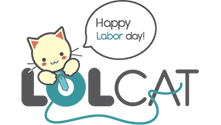
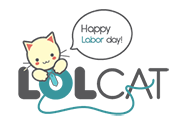
Added Sam's Changes
Holiday and Logo images
Scripts and Styles 2 updates

Changed region(s): [[0.0802, 0.0, 0.9091, 1.0], [0.3476, 0.48, 0.3743, 0.504]]

diff --git a/public/scripts.js b/public/scripts.js
@@ -5,108 +5,134 @@
 		var date = currentTime.getDate();
 		var month = currentTime.getMonth() + 1;
 		
-		//Valentines
+//January
+
+//February		
+		//Valentines - Feb 14
 		if (month == 2 && (date >= 10 && date <= 16)) {
 			document.getElementById("logo").style.background="url('img/holidays-03.png')";}
-		//St. Pattys Day
+//March		
+		//Steph Vargas's Bday - March 5
+		else if (date == 5 && month == 3){
+			document.getElementById("logo").style.background="url('img/holidays-17.png')";}
+		//St. Pattys Day - March 17
 		else if (month == 3 && (date >= 13 && date <= 19)) {
 			document.getElementById("logo").style.background="url('img/holidays-02.png')";}
-		//Easter 2016
-		//else if (month == 3 && (date >= 22 && date <= 29)) {
-		//	document.getElementById("logo").style.background="url('img/easter.png')";}
-		//Labor Day CR
+		//Easter 2016 - March 27
+		//else if (month == 3 && (date >= 22 && date <= 28)) {
+		//	document.getElementById("logo").style.background="url('img/holidays-11.png')";}
+		//Manuel Delgado Rodriguez's Bday - March 29
+		else if (date == 29 && month == 3){
+			document.getElementById("logo").style.background="url('img/holidays-17.png')";}
+//April
+		//Easter 2017 - April 16
+		//else if (month == 4 && (date >= 12 && date <= 18)) {
+		//	document.getElementById("logo").style.background="url('img/holidays-11.png')";}
+		//Sam's Bday - April 22
+		else if (date == 22 && month == 4){
+			document.getElementById("logo").style.background="url('img/holidays-17.png')";}
+		//Luis Mesen Monge's Bday - April 26
+		else if (date == 26 && month == 4){
+			document.getElementById("logo").style.background="url('img/holidays-17.png')";}
+//May
+		//Labor Day CR - May 1
 		else if ((date >= 27 && month == 4) || (date == 1 && month == 5)) {
 			document.getElementById("logo").style.background="url('img/holidays-07.png')";}
-		//Mother's Day US 2016
-		else if (month == 5 && (date >= 2 && date <= 10)) {
+		//Cinco de Mayo - May 5
+		else if  (date == 5 && month == 5) {
+			document.getElementById("logo").style.background="url('img/holidays-19.png')";}
+		//Mother's Day US 2016 - May 8
+		else if (month == 5 && (date >= 6 && date <= 10)) {
 			document.getElementById("logo").style.background="url('img/holidays-08.png')";}
-		//Memorial Day US 2016
-		//else if (month == 5 && (date >= 25 && date <= 31)) {
-		//	document.getElementById("logo").style.background="url('img/memorialday.png')";}
-		//Father's Day 2016
+		//Mother's Day US 2017 - May 14
+		//else if (month == 5 && (date >= 10 && date <= 16)) {
+		//	document.getElementById("logo").style.background="url('img/holidays-08.png')";}
+		//Memorial Day US 2016/2017 - May 30/May 29
+		else if (month == 5 && (date >= 25 && date <= 31)) {
+			document.getElementById("logo").style.background="url('img/holidays-14.png')";}
+//June
+		//Eric's Bday - June 12
+		else if (date == 12 && month == 6){
+			document.getElementById("logo").style.background="url('img/holidays-17.png')";}
+		//Father's Day 2016/2017 - June 19/June 18
 		else if (month == 6 && (date >= 13 && date <= 19)) {
 			document.getElementById("logo").style.background="url('img/holidays-09.png')";}
-		//Independence Day US
-		else if (month == 7 && (date >= 1 && date <= 7)) {
+		//Sonia Sanchez Rodriguez's Bday - June 26
+		else if (date == 26 && month == 6){
+			document.getElementById("logo").style.background="url('img/holidays-17.png')";}
+//July
+		//Independence Day US - July 4
+		else if (month == 7 && (date >= 1 && date <= 2)) {
 			document.getElementById("logo").style.background="url('img/holidays-05.png')";}
-		// Annexation of Guanacaste CR
-		//else if (month == 7 && (date >= 20 && date <= 27)) {
-		//	document.getElementById("logo").style.background="url('img/annex.png')";}
-		//Mother's Day CR
+		else if (month == 7 && (date >= 4 && date <= 7)) {
+			document.getElementById("logo").style.background="url('img/holidays-05.png')";}
+		//Steph Araya Medina's Bday - July 3
+		else if (date == 3 && month == 7){
+			document.getElementById("logo").style.background="url('img/holidays-17.png')";}
+		//Gappa's Bday - July 13
+		else if (date == 13 && month == 7){
+			document.getElementById("logo").style.background="url('img/holidays-17.png')";}
+		//Kala's Bday - July 22
+		else if (date == 22 && month == 7){
+			document.getElementById("logo").style.background="url('img/holidays-17.png')";}
+		// Annexation of Guanacaste CR - July 25
+		else if (month == 7 && (date >= 23 && date <= 27)) {
+			document.getElementById("logo").style.background="url('img/holidays-15.png')";}
+//August		
+		//Mother's Day CR - August 15
 		else if (month = 8 && (date >= 11 && date <= 17)) {
 			document.getElementById("logo").style.background="url('img/holidays-08.png')";}
-		//Labor Day US 2016
+//September		
+		//Labor Day US 2016/2017 - September 5/September 4
 		else if (month == 9 && (date <= 1 && date <= 7)) {
 			document.getElementById("logo").style.background="url('img/holidays-07.png')";}
-		// Children's Day CR
-		//else if (month == 9 && (date >= 8 && date <= 10)) {
-		//	document.getElementById("logo").style.background="url('img/childrens.png')";}
-		//Indepedence Day CR
-		else if (month == 9 && (date >= 11 && date <= 17)) {
+		// Children's Day CR - September 9
+		else if (month == 9 && (date >= 8 && date <= 10)) {
+			document.getElementById("logo").style.background="url('img/holidays-16.png')";}
+		//Indepedence Day CR - September 15
+		else if (month == 9 && (date >= 11 && date <= 16)) {
 			document.getElementById("logo").style.background="url('img/holidays-04.png')";}
-		// Day of the Cultures CR
-		//else if (month == 10 && (date >= 8 && date <= 14)) {
-		//	document.getElementById("logo").style.background="url('img/DOC.png')";}
-		// Halloween
-		else if (month == 10 && (date >= 24 && date <= 31)) {
+		//Karen Murillo Chaves's Bday - September 17
+		else if (date == 17 && month == 9){
+			document.getElementById("logo").style.background="url('img/holidays-17.png')";}
+//October		
+		// Day of the Cultures CR - October 12
+		else if (month == 10 && (date >= 8 && date <= 14)) {
+			document.getElementById("logo").style.background="url('img/holidays-10.png')";}
+		// Halloween - October 31
+		else if (month == 10 && (date >= 24 && date <= 26)) {
 			document.getElementById("logo").style.background="url('img/holidays-01.png')";}
-		//Thanksgiving 2016
-		//else if (month == 11 && (date >= 17 && date <= 26)) {
-		//	document.getElementById("logo").style.background="url('img/thanksgiving.png')";}
-		// Christmas
+		else if (month == 10 && (date >= 28 && date <= 31)) {
+			document.getElementById("logo").style.background="url('img/holidays-01.png')";}
+		//Laura Ulate Alfaro's Bday - October 27
+		else if (date == 27 && month == 10){
+			document.getElementById("logo").style.background="url('img/holidays-17.png')";}
+//November		
+		//Ryan's Bday - November 4
+		else if (date == 4 && month == 11){
+			document.getElementById("logo").style.background="url('img/holidays-17.png')";}
+		//Jeannina Carranza Castro's Bday - November 7
+		else if (date == 7 && month == 11){
+			document.getElementById("logo").style.background="url('img/holidays-17.png')";}
+		//Ariela Carrillo Diaz's Bday - November 9
+		else if (date == 9 && month == 11){
+			document.getElementById("logo").style.background="url('img/holidays-17.png')";}
+		//Thanksgiving 2016 - November 24
+		else if (month == 11 && (date >= 17 && date <= 26)) {
+			document.getElementById("logo").style.background="url('img/holidays-18.png')";}
+//December		
+		// Christmas - December 25
 		else if (month == 12 && (date >= 1 && date <= 27)) {
 			document.getElementById("logo").style.background="url('img/holidays-06.png')";}
-		// New Years
-		//else if ((date >= 28 && month == 12) || (date == 5 && month == 1)) {
-		//	document.getElementById("logo").style.background="url('img/newyears.png')";}
+		// New Years - Dec 31/Jan 1
+		else if ((date >= 28 && month == 12) || (date == 5 && month == 1)) {
+			document.getElementById("logo").style.background="url('img/holidays-12.png')";}
 		
-		
-		//Sam's Bday
-		//else if (date == 22 && month == 4){
-		//	document.getElementById("logo").style.background="url('img/birthday.png')";}
-		//Gappa's Bday
-		//else if (date == 13 && month == 7){
-		//	document.getElementById("logo").style.background="url('img/birthday.png')";}
-		//Eric's Bday
-		//else if (date == 12 && month == 6){
-		//	document.getElementById("logo").style.background="url('img/birthday.png')";}
+
 		//Alex's Bday
 		//else if (date == x && month == x){
-		//	document.getElementById("logo").style.background="url('img/birthday.png')";}
-		//Ryan's Bday
-		//else if (date == 4 && month == 11){
-		//	document.getElementById("logo").style.background="url('img/birthday.png')";}
-		//Kala's Bday
-		//else if (date == 22 && month == 7){
-		//	document.getElementById("logo").style.background="url('img/birthday.png')";}
-		//Steph Vargas's Bday
-		//else if (date == 5 && month == 3){
-		//	document.getElementById("logo").style.background="url('img/birthday.png')";}
-		//Steph Araya Medina's Bday
-		//else if (date == 3 && month == 7){
-		//	document.getElementById("logo").style.background="url('img/birthday.png')";}
-		//Jeannina Carranza Castro's Bday
-		//else if (date == 7 && month == 11){
-		//	document.getElementById("logo").style.background="url('img/birthday.png')";}
-		//Ariela Carrillo Diaz's Bday
-		//else if (date == 9 && month == 11){
-		//	document.getElementById("logo").style.background="url('img/birthday.png')";}
-		//Manuel Delgado Rodriguez's Bday
-		//else if (date == 29 && month == 3){
-		//	document.getElementById("logo").style.background="url('img/birthday.png')";}
-		//Luis Mesen Monge's Bday
-		//else if (date == 26 && month == 4){
-		//	document.getElementById("logo").style.background="url('img/birthday.png')";}
-		//Karen Murillo Chaves's Bday
-		//else if (date == 17 && month == 9){
-		//	document.getElementById("logo").style.background="url('img/birthday.png')";}
-		//Sonia Sanchez Rodriguez's Bday
-		//else if (date == 26 && month == 6){
-		//	document.getElementById("logo").style.background="url('img/birthday.png')";}
-		//Laura Ulate Alfaro's Bday
-		//else if (date == 27 && month == 10){
-		//	document.getElementById("logo").style.background="url('img/birthday.png')";}
-		
+		//	document.getElementById("logo").style.background="url('img/holidays-17.png')";}
+
 		
 		//Standard	
 		else {
@@ -115,11 +141,11 @@
 
 
 /////// Randomizer for help images
-		/*$(function randomImg(){
+		$(function randomImg(){
 			var randomNumber = Math.floor(Math.random() * 8) + 1;
 			var imgName = "img_" + randomNumber + ".gif";
 			document.getElementById("imageid").src= "gifs" + "/" + imgName ;
-		 });*/
+		 });
 
 
 /////// Nav2 for mobile sizes

diff --git a/public/styles2.css b/public/styles2.css
@@ -14,14 +14,14 @@ h3:hover{color:#e28445; text-decoration:underline;}
 h4{font-size:1.2em; font-weight:bold; display:inline; color:#28686c; text-decoration:underline;}
 
 
-header{width:100%; height:110px; background:#ffffff; padding:0 0 10px 0; position:fixed; z-index:10; box-shadow:0px 1px 1px #777777; }
+header{width:100%; height:135px; background:#ffffff; padding:0 0 10px 0; position:fixed; z-index:10; box-shadow:0px 1px 1px #777777; }
 #hdr{max-width:980px; margin:0 auto;}
 #logoWrapper{position:static;}
-#logo{background:url('img/logo-sm.png'); width:176px; height:101px; float:left; margin:5px 0 5px 10px;}
+#logo{/*background:url('img/logo.png') no-repeat;*/ width:187px; height:125px; float:left; margin:10px 0 10px 10px;}
 
 
 /***Nav1***/
-#nav1{height:60px; position:relative; float:right; margin-top:15px;}
+#nav1{height:60px; position:relative; float:right; margin-top:35px;}
 #nav1 > ul  {list-style:none;}
 #nav1 > ul > li {display:block; float:left; padding: 0px 5px;}
 #nav1 a{color:#333333; margin:0px; text-decoration:none;}
@@ -92,7 +92,7 @@ p{margin:10px 0;}
 #entry a{text-decoration:none;}
 
 
-.flex-container {padding:2% 8%; margin: 150px 0 0 0; list-style: none; display: -webkit-box; display: -moz-box; display: -ms-flexbox; display: -webkit-flex; display: flex; -webkit-flex-flow: row wrap; justify-content: space-around; float:left; width:84%;}
+.flex-container {padding:2% 8%; margin: 170px 0 0 0; list-style: none; display: -webkit-box; display: -moz-box; display: -ms-flexbox; display: -webkit-flex; display: flex; -webkit-flex-flow: row wrap; justify-content: space-around; float:left; width:84%;}
 .flex-container select{width:98%;}
 .flex-item {padding: 0px 10px 10px 10px; width: 220px; height: auto; margin:10px; text-align: center; box-shadow:3px 3px 7px 2px rgba(51,51,51,0.3);}
 
@@ -188,9 +188,9 @@ form > input {margin:3px;}
 	.flex-item{margin:5px;}		
 }
 
-@media only screen and (max-width: 767px) {
-	header{height:110px;}
-
+@media only screen and (min-width: 445px) and (max-width: 767px) {
+	header{height:120px;}
+	#logo {margin:0;}
 	#nav1{margin-top:20px;}
 
 
@@ -214,7 +214,26 @@ form > input {margin:3px;}
 	.flex-container{margin:180px 0 0 0;}
 }
 
-@media screen and (max-width: 442px){
+@media only screen and (max-width: 444px) {
+	header{height:130px;}
+	#logo {margin: 0 auto;}
+	#nav1 {margin: 0 auto; float:none;}
+	#nav1 ul li{margin-top:10px;}
+	
+	#nav2 {height:auto; max-height: 0; overflow: hidden; float: none; text-align: center; width: 100%; -webkit-transition: max-height 0.5s; -moz-transition: max-height 0.5s; transition: max-height 0.5s; background:rgba(51,51,51,.7);}
+	#nav2.menuOpen {max-height: 1000px; -webkit-transition: max-height 0.5s; -moz-transition: max-height 0.5s; transition: max-height 0.5s;}
+	#nav2 > ul > li {display: block; width: 100%; background: rgba(51,51,51,.7); border-top: 1px solid #4d4d4d; padding:0;}
+	#nav2 ul li:hover {background: #e47469; color:#ffffff;}
+	#nav2 ul li a {color: #fff; text-shadow: #848484 0px 1px 2px; padding: 10px 0; width: 100%; text-decoration:none;}
+	.menuIcon {display: inline-block;}
+	
+	.flex-container{margin:180px 0 0 0;}
+
+}
+
+
+/*@media screen and (max-width: 442px){
 	#logo{background:url('img/logo-mobile.png'); width:54px; height:75px;}
 	#nav1{margin-top:10px;}
 }
+*/
